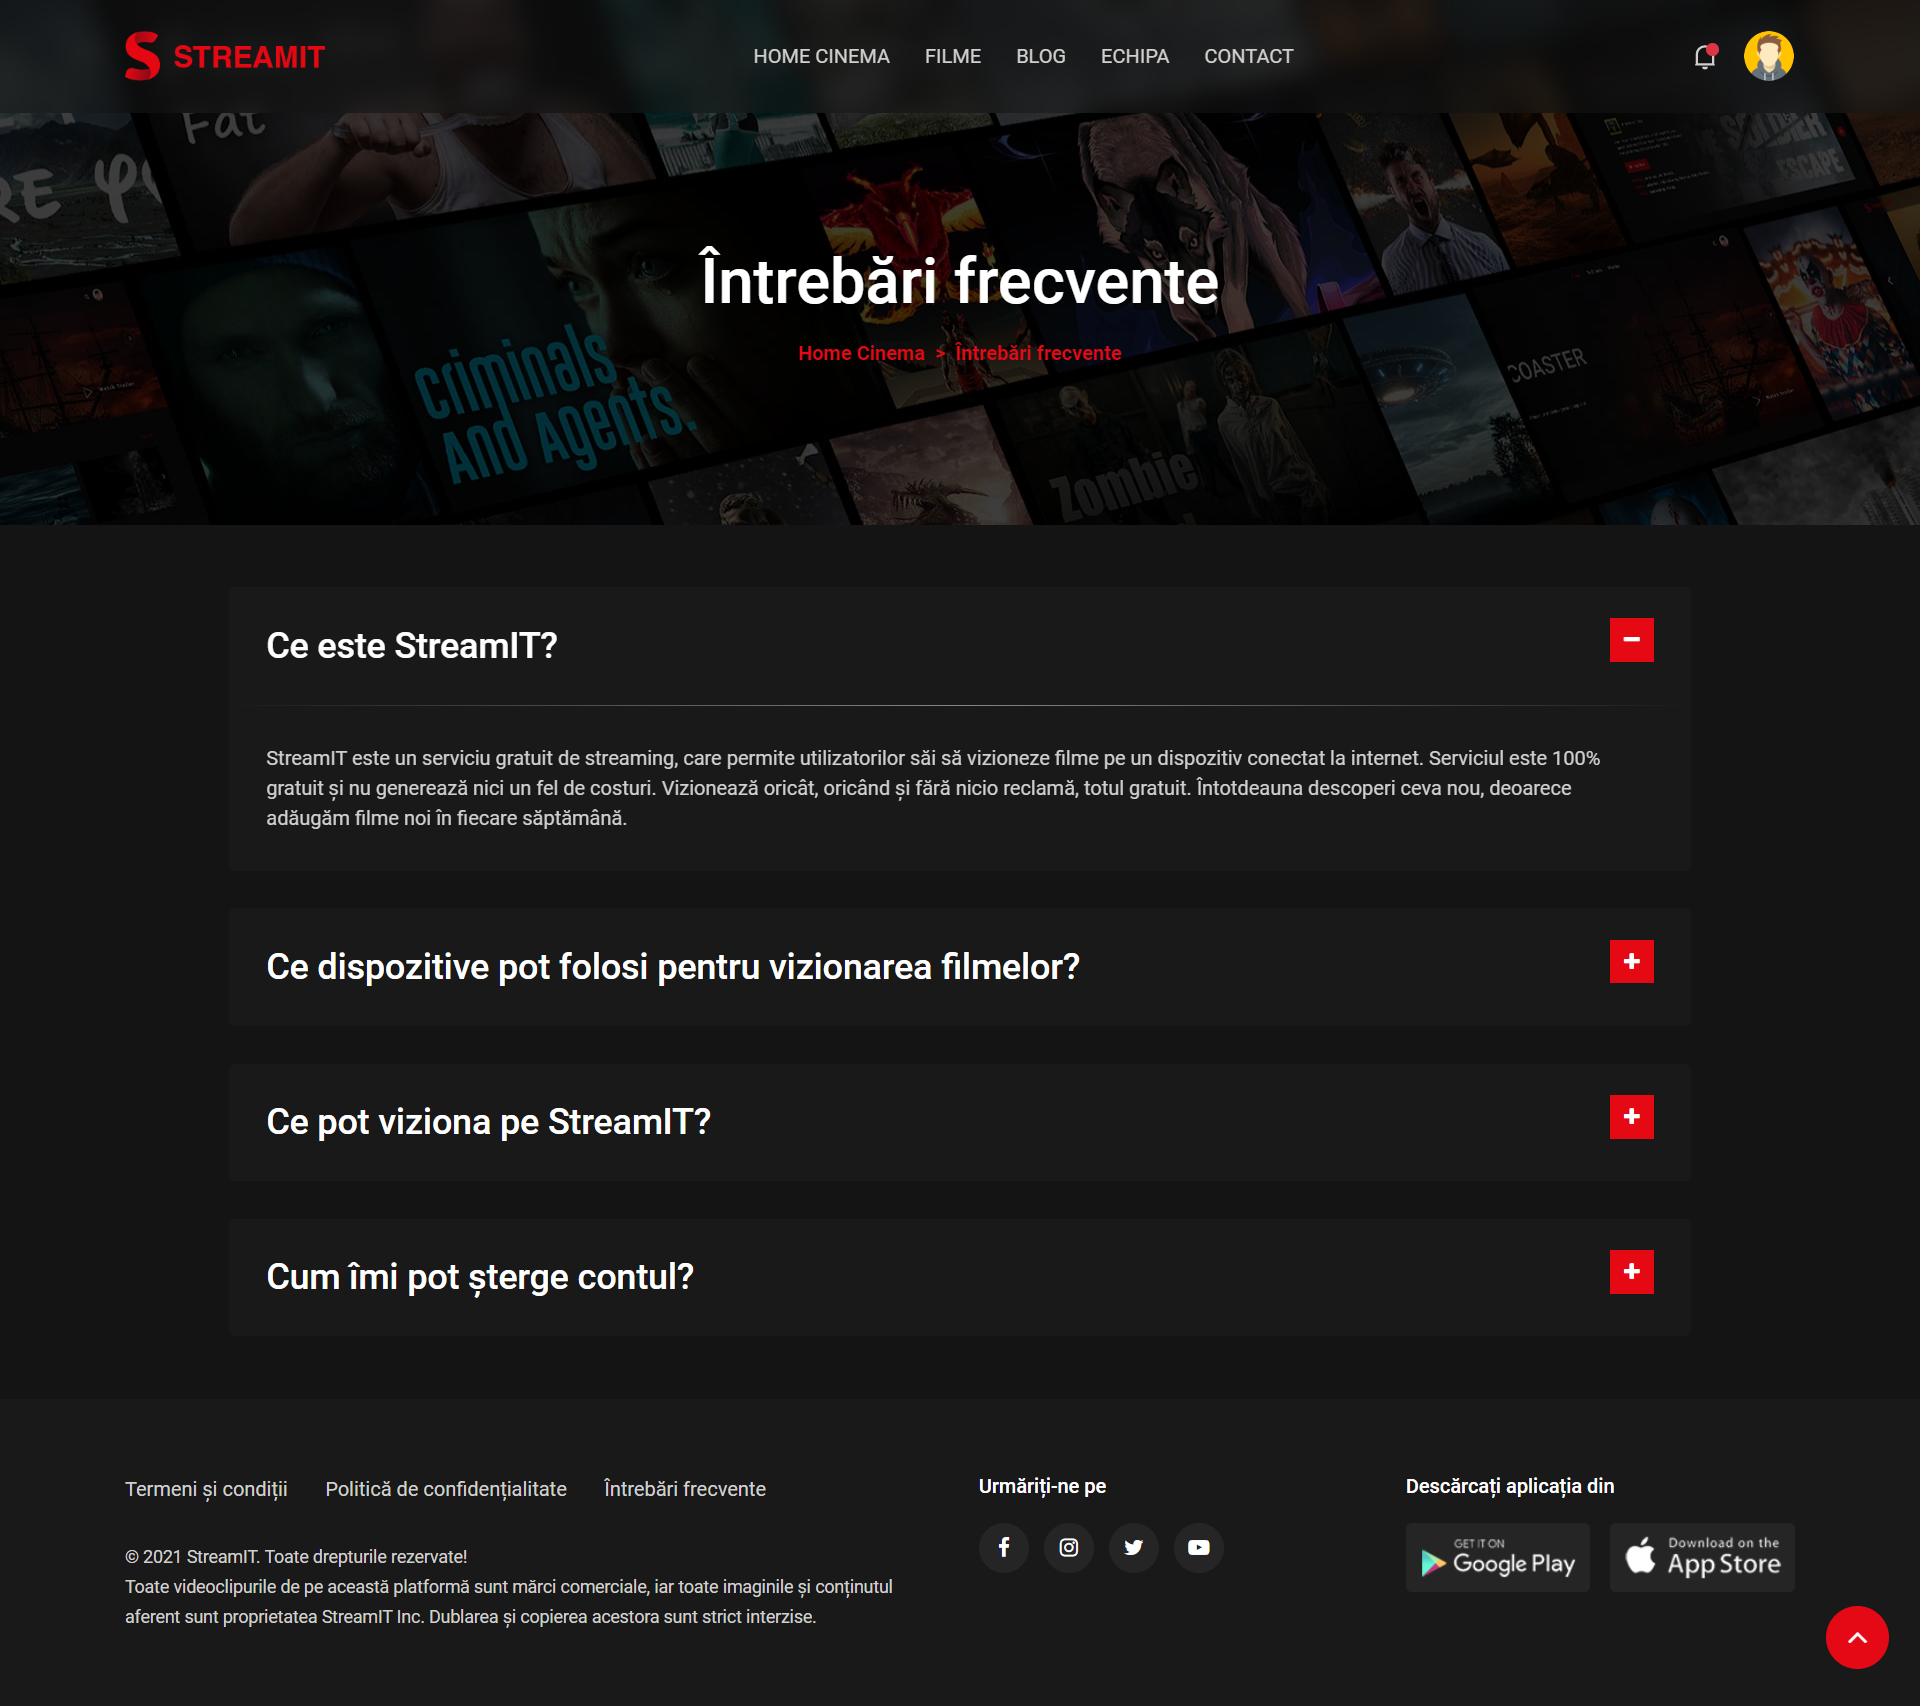
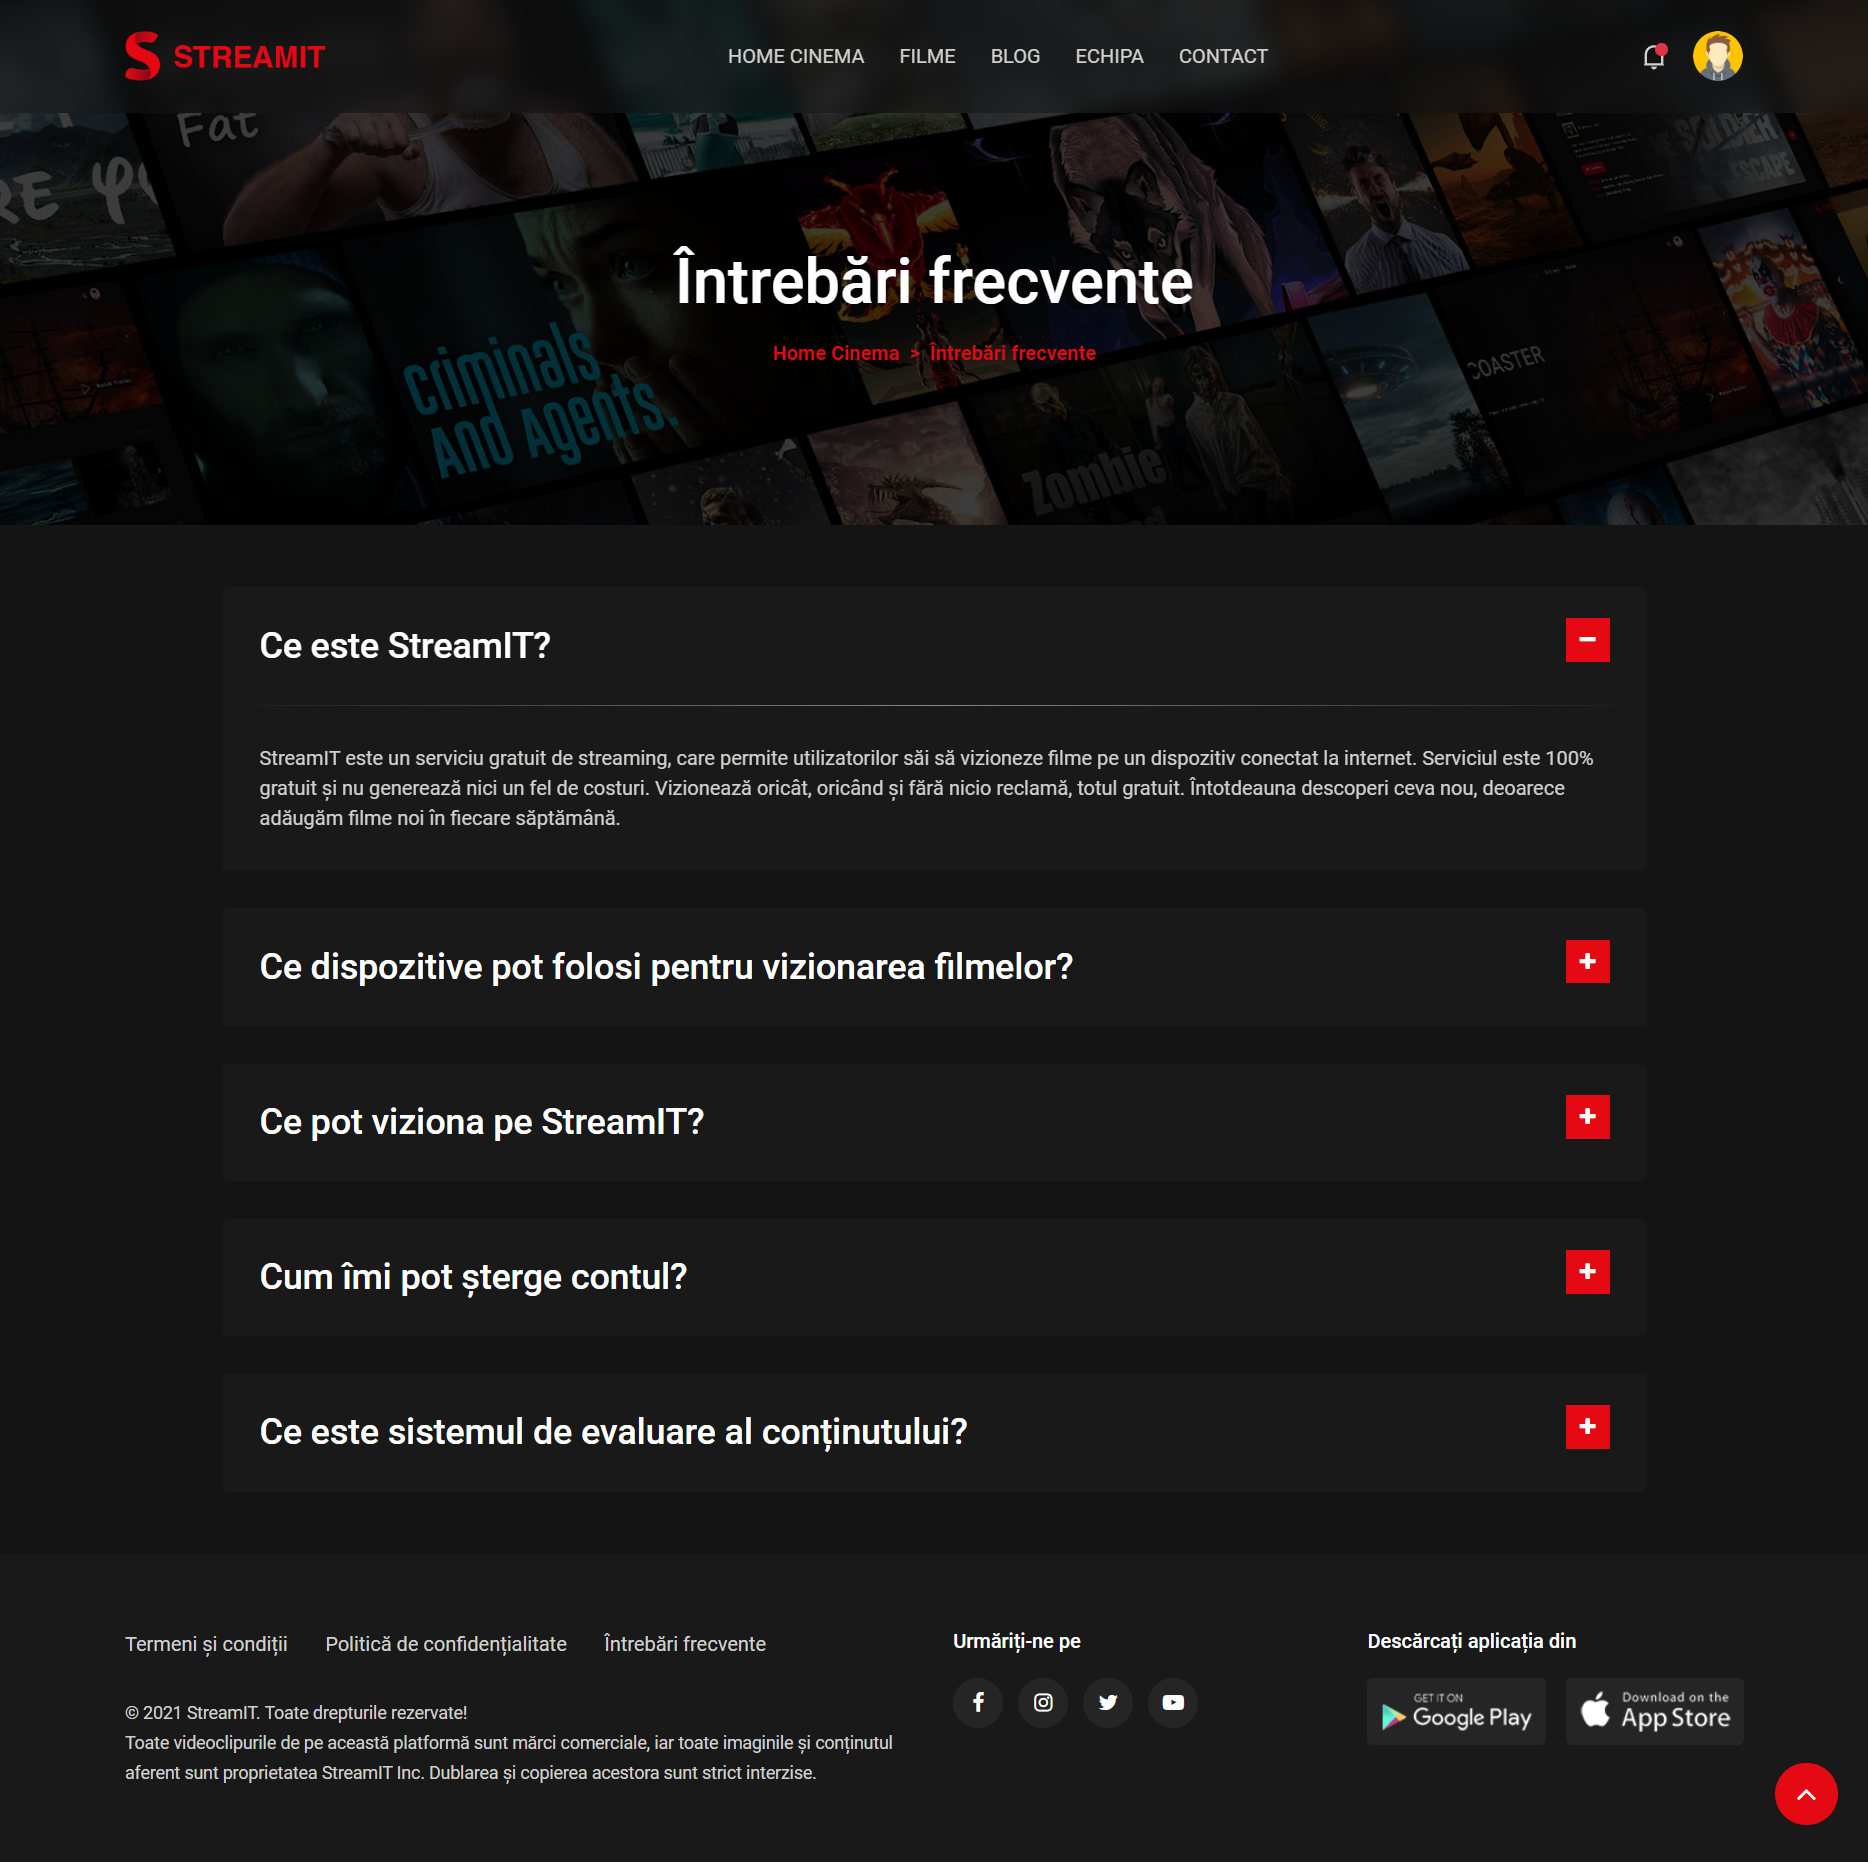
update faq page

diff --git a/frontend user/src/pages/extra-pages/FAQ.js b/frontend user/src/pages/extra-pages/FAQ.js
@@ -2,9 +2,8 @@ import React, { useState } from "react";
 import { Container, Row, Col } from "react-bootstrap";
 import { Link } from "react-router-dom";
 import BannerPages from "../../components/banners/BannerPages";
+import Card from "../../components/card/Card";
 import multipleDevices from "../../assets/images/multipleDevices.png";
-import streamit from "../../assets/images/streamit.png";
-import deleteAccountFAQ from "../../assets/images/deleteAccount.png";
 
 export default function FAQ() {
   const [faq, setfaq] = useState("1");
@@ -76,12 +75,19 @@ export default function FAQ() {
                     <p className="iq-content-text">
                       {" "}
                       Vizionează oriunde și oricând pe orice dispozitiv cu
-                      conexiune la internet. Poți viziona filmele pe iPhone,
-                      iPad, telefonul mobil, tabletă Android, Apple TV, Android
-                      TV, Chromecast, Samsung TV, LG, Chrome OS, MacOS, Windows
-                      PC, PS4 și PS5, iar în viitor aplicația va fi disponibilă
-                      și pe alte dispozitive. Datorită design-ului responsive
-                      serviciul poate fi redat pe orice ecran.{" "}
+                      conexiune la internet.{" "}
+                    </p>
+                    <p className="iq-content-text">
+                      {" "}
+                      Poți viziona filmele pe iPhone, iPad, telefon mobil,
+                      tabletă Android, Apple TV, Android TV, Chromecast, Samsung
+                      TV, LG, Chrome OS, MacOS, Windows PC, PS4 și PS5, iar în
+                      viitor aplicația va fi disponibilă și pe alte dispozitive.{" "}
+                    </p>
+                    <p className="iq-content-text">
+                      {" "}
+                      Datorită design-ului responsive serviciul poate fi redat
+                      pe orice ecran!{" "}
                     </p>
                     <div className=" text-center" style={{ paddingTop: 5 }}>
                       <img
@@ -124,14 +130,6 @@ export default function FAQ() {
                       extraordinar de bogată, cu filme premiate, lungmetraje,
                       documentare, animeuri și multe altele.{" "}
                     </p>
-                    <div className=" text-center" style={{ paddingTop: 5 }}>
-                      <img
-                        src={streamit}
-                        width="500"
-                        className="img-fluid d-block mx-auto mb-3"
-                        alt="StreamIT"
-                      />
-                    </div>
                   </div>
                 </div>
                 <div
@@ -175,13 +173,126 @@ export default function FAQ() {
                       Acest lucru ne ajută să ne îmbunătățim serviciul pe
                       viitor.{" "}
                     </p>
-                    <div className=" text-center" style={{ paddingTop: 5 }}>
-                      <img
-                        src={deleteAccountFAQ}
-                        width="400"
-                        className="img-fluid d-block mx-auto mb-3"
-                        alt="deleteAccount"
-                      />
+                  </div>
+                </div>
+                <div
+                  className={`iq-accordion-block 5  ${
+                    faq === "5" ? "iq-active" : ""
+                  }`}
+                  onClick={() => {
+                    setfaq("5");
+                  }}
+                >
+                  <div className="iq-accordion-title">
+                    <div className="iq-icon-right">
+                      <i aria-hidden="true" className="fa fa-minus active"></i>
+                      <i aria-hidden="true" className="fa fa-plus inactive"></i>
+                    </div>
+                    <h4 className="mb-0 accordion-title iq-heading-title">
+                      Ce este sistemul de evaluare al conținutului?
+                    </h4>
+                  </div>
+                  <div
+                    className={`iq-accordion-details ${
+                      faq === "5" ? "d-block" : "d-none"
+                    }`}
+                  >
+                    <p className="iq-content-text">
+                      {" "}
+                      Sistemul de evaluare al conținutului reprezintă un sistem
+                      de rating pentru filme și seriale cu scopul de a estima
+                      adecvarea acestora pentru anumite audiențe pe baza
+                      conținutului lor{" "}
+                    </p>
+                    <p className="iq-content-text">
+                      {" "}
+                      Sistemul de rating MPA (Motion Picture Association) este
+                      un exemplu de sistem de evaluare al conținutului care este
+                      folosit cu scopul de a ajuta părinții să decidă ce
+                      conținut media este adecvat pentru copiii lor.{" "}
+                    </p>
+                    <div>
+                      <Card.Body>
+                        <div
+                          className="table-responsive"
+                          style={{ paddingTop: 20 }}
+                        >
+                          <table
+                            id="datatable"
+                            className="table table-striped table-bordered"
+                          >
+                            <thead>
+                              <tr>
+                                <th style={{ textAlign: "center" }}>
+                                  Simbol de evaluare
+                                </th>
+                                <th style={{ textAlign: "center" }}>
+                                  Descriere
+                                </th>
+                              </tr>
+                            </thead>
+                            <tbody>
+                              <tr>
+                                <td>G</td>
+                                <td>
+                                  Public general - sunt admise toate vârstele.
+                                </td>
+                              </tr>
+                              <tr>
+                                <td>R</td>
+                                <td>
+                                  Restricționat - conține materiale pentru
+                                  adulți, iar pentru copii cu vârsta sub 17 ani
+                                  este necesară aprobarea din partea unui
+                                  părinte.
+                                </td>
+                              </tr>
+                              <tr>
+                                <td>PG</td>
+                                <td>
+                                  <p>
+                                    Îndrumare părintească sugerată - este
+                                    posibil ca unele materiale să nu fie
+                                    potrivite pentru copii.
+                                  </p>
+                                </td>
+                              </tr>
+                              <tr>
+                                <td>PG-13</td>
+                                <td>
+                                  <p>
+                                    Părinții puternic avertizați - unele
+                                    materiale pot fi inadecvate copiilor sub 13
+                                    ani, de aceea părinții sunt îndemnați să fie
+                                    prudenți.
+                                  </p>
+                                </td>
+                              </tr>
+                              <tr>
+                                <td>NC-13</td>
+                                <td>
+                                  <p>
+                                    Numai pentru adulți - persoanele sub 17 ani
+                                    nu au voie să vizioneze acest tip de
+                                    conținut.
+                                  </p>
+                                </td>
+                              </tr>
+                              <tr>
+                                <td>TV-MA</td>
+                                <td>
+                                  <p>
+                                    Numai pentru publicul matur - acest program
+                                    este conceput special pentru a fi vizionat
+                                    de adulți și, prin urmare, poate fi
+                                    nepotrivit copiilor sub 17 ani.
+                                  </p>
+                                </td>
+                              </tr>
+                            </tbody>
+                          </table>
+                        </div>
+                      </Card.Body>
                     </div>
                   </div>
                 </div>
